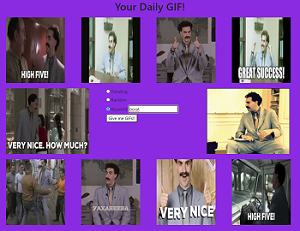
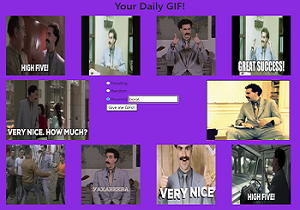
found lost /div

diff --git a/index.html b/index.html
@@ -55,64 +55,67 @@
     </div>
 
     <div id="projects">
-        <div class="justify-container-fluid">
+        <div class="justify-container-fluid" style='width: 90%'>
             <div class="row justify-content-center">
                 <div class="row" style='margin-bottom: 10px;'>
-                    <div class="col">
+                    <div class="col" style='width: 225px; height: 225px;'>
                         <a href='https://codepen.io/chad-gooch/pen/ZEyaKzp' target='_blank'>
                         <img src="./assets/csscreature.png" alt="CSS Creature"></a>
                     </div>
-                    <div class="col" style='display:flex; align-items: center; justify-content: center;'>
+                    <div class="col" style='align-items: center; justify-content: center;'>
                         <div class='desc'><span>A beginner project to illustrate what can be done exclusively with CSS(cascading style sheet)</span></div>
                     </div>
                 </div>
                 <div class="row" style='margin-bottom: 10px;'>
-                    <div class="col">
+                    <div class="col" style='width: 225px; height: 225px;'>
                         <a href='https://chad-gooch.github.io/StaticLayout/' target='_blank'>
                         <img src="./assets/static.png" alt="StaticLayout"></a>
                     </div>
-                    <div class="col" style='display:flex; align-items: center; justify-content: center;'>
+                    <div class="col" style='align-items: center; justify-content: center;'>
                         <div class='desc'><span>The second project for my coding experience was an attempting to imitate an existing website using only html and css.</span></div>
                     </div>
                 </div>
                 <div class="row" style='margin-bottom: 10px;'>
-                    <div class="col">
+                    <div class="col" style='width: 225px; height: 225px;'>
                         <a href='https://chad-gooch.github.io/PokeApi/' target='_blank'>
                         <img src="./assets/api1.png" alt="Pokemon Api"></a>
                     </div>
-                    <div class="col" style='display:flex; align-items: center; justify-content: center;'>
+                    <div class="col" style='align-items: center; justify-content: center;'>
                         <div class='desc'><span>My first webpage that utilizes javascript and api calls to modify a dataset and display the important results based on user input.</span></div>
                     </div>
                 </div>
                 <div class="row" style='margin-bottom: 10px;'>
-                    <div class="col">
+                    <div class="col" style='width: 225px; height: 225px;'>
                         <a href='https://giphy-api-55b85.web.app/' target='_blank'>
                         <img src="./assets/api2.png" alt="GIPHY api"></a>
                     </div>
-                    <div class="col" style='display:flex; align-items: center; justify-content: center;'>
+                    <div class="col" style='align-items: center; justify-content: center;'>
                         <div class='desc'><span>My second webpage that utilizes javascript and api calls with the added requirement of using an api key.  The GIFs change daily as per the api host.</span></div>
+                    </div>
                 </div>
                 <div class="row" style='margin-bottom: 10px;'>
-                    <div class="col">
+                    <div class="col" style='width: 225px; height: 225px;'>
                         <a href='https://cbd-berry-client.herokuapp.com/' target='_blank'>
-                        <img src="./assets/BlueGarden.png" alt="GIPHY api"></a>
+                        <img src="./assets/BlueGarden.png" alt="BlueGarden"></a>
                     </div>
-                    <div class="col" style='display:flex; align-items: center; justify-content: center;'>
-                        <div class='desc'><span>My first "CRUD" website utilizing client and server applications.  Completed as a group of 3 individuals working on our seperate parts to make the whole. This project includes both API calls to a 3rd party as well as a local database.</span></div>
+                    <div class="col" style='align-items: center; justify-content: center;'>
+                        <div class='desc'><span>My first "CRUD" website utilizing client and server programs.  This project includes both API calls to a 3rd party as well as a local database.</span></div>
+                    </div>
                 </div>
                 <div class="row" style='margin-bottom: 10px;'>
-                    <div class="col">
+                    <div class="col" style='width: 225px; height: 225px;'>
                         <a href='https://gooch-battletech.herokuapp.com/' target='_blank'>
-                        <img src="./assets/battletech.png" alt="GIPHY api"></a>
+                        <img src="./assets/battletech.png" alt="battletech"></a>
                     </div>
-                    <div class="col" style='display:flex; align-items: center; justify-content: center;'>
-                        <div class='desc'><span>My second CRUD application that includes front and back end applications.  This website was created entirely by me for the conclusion of my time at ElevenFifty Acadamy</span></div>
+                    <div class="col" style='align-items: center; justify-content: center;'>
+                        <div class='desc'><span>My second CRUD application that includes client and server programs.</span></div>
+                    </div>
                 </div>
             </div>
         </div>
     </div>
 
-    <div id="contact" class="container" style="background-color: tomato;">
+    <div id="contact" class="container-fluid" style="background-color: tomato; margin-left: 35px;">
         <h5 style="text-align: center; padding: 20px;">If you wish to send me an email, simply use the provided form below.</h5>
         <form action="https://formspree.io/f/xleaybka" method="POST">
             <div class='row'>
@@ -132,7 +135,7 @@
     </div>
 
     <footer>
-        <div class='container'>
+        <div class='container-fluid' style='margin-left: 15px;'>
             <div class='row'>
                 <div class='col'>
                     <a href='https://www.linkedin.com/in/chad-gooch-1525b8a2/' style="color: white;">LinkedIn</a>

diff --git a/style.css b/style.css
@@ -27,4 +27,3 @@ nav {
     justify-content: center;
     margin-right: 10px;
 }
-
